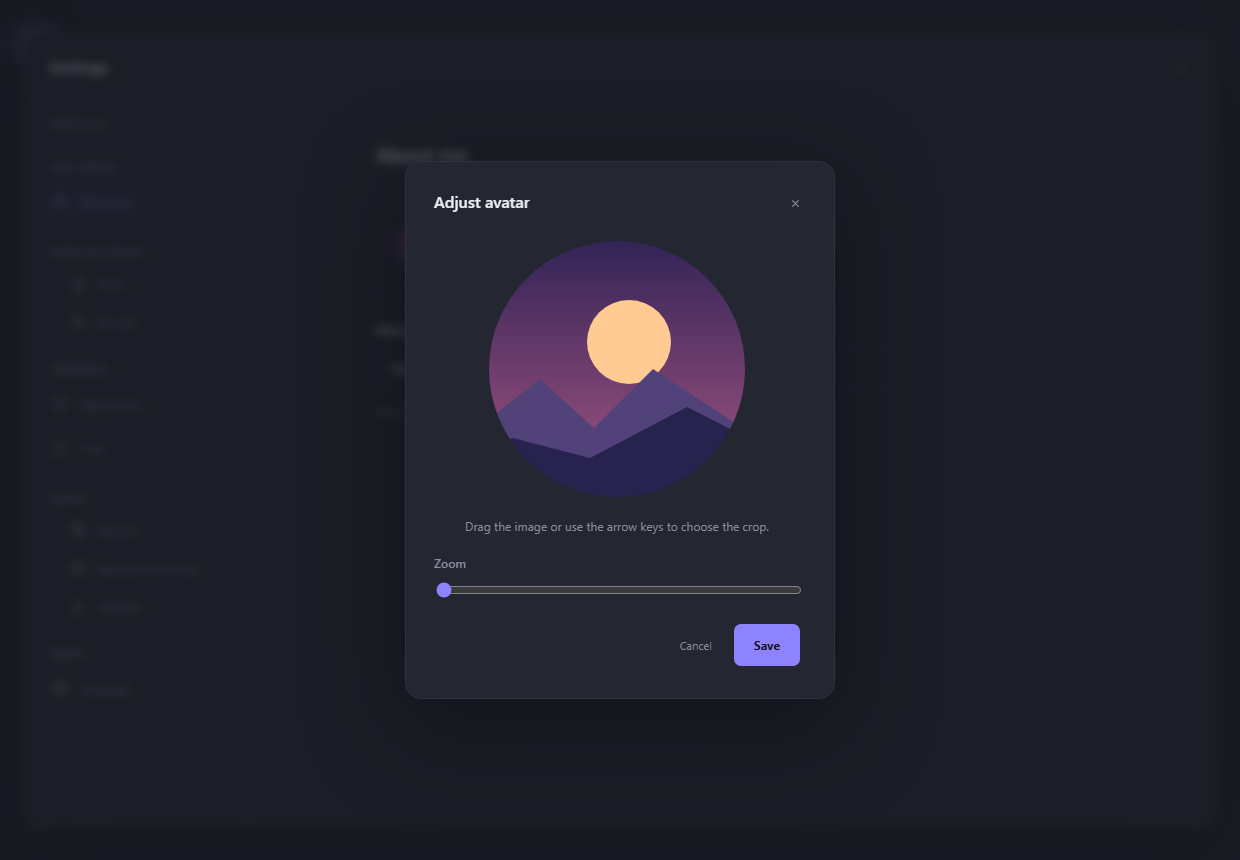
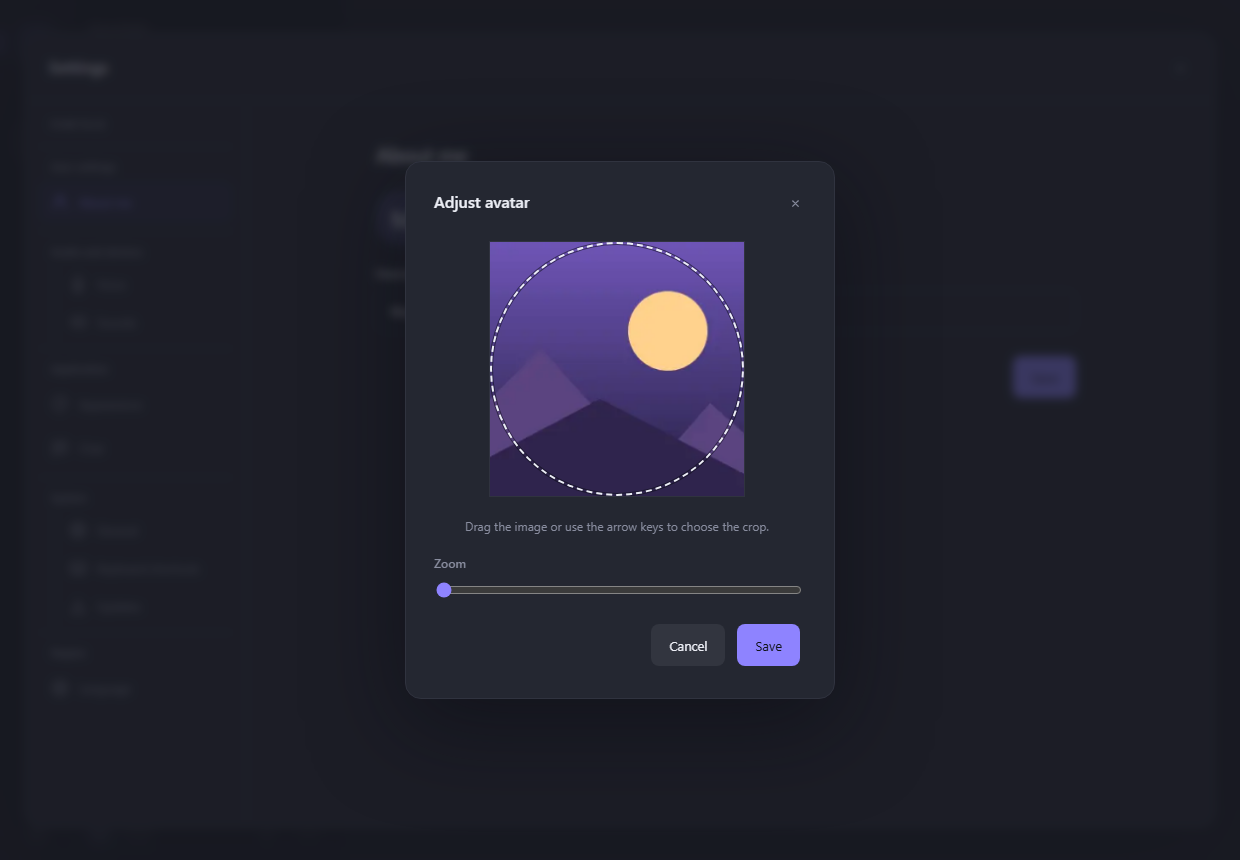
docs(website): refresh bilingual screenshots and chat features

Changed region(s): [[0.3677, 0.2721, 0.6129, 0.5744], [0.7968, 0.393, 0.8887, 0.4837], [0.5516, 0.7256, 0.6435, 0.7558]]

diff --git a/website/ru/index.html b/website/ru/index.html
@@ -39,19 +39,20 @@
     <p class="fine">Установщик без цифровой подписи · Проверяемое автообновление · <a href="../downloads/#client" data-release="client">Описание выпуска, SHA-256 и исходники</a></p>
     <p class="fine" data-status></p>
   </section>
-  <figure class="hero-shot"><a href="../assets/room-chat.png"><img src="../assets/room-chat.png" width="1240" height="860" fetchpriority="high" alt="Комната PawTalk с тремя участниками, кнопками звонка и зашифрованным текстовым чатом"></a><figcaption>Иллюстрация интерфейса 0.7.x; актуальный API 2 отличается.</figcaption></figure>
+  <figure class="hero-shot"><a href="../assets/room-chat.png"><img src="../assets/room-chat.png" width="1240" height="860" fetchpriority="high" alt="Комната PawTalk с тремя участниками, кнопками звонка и зашифрованным текстовым чатом"></a><figcaption>Интерфейс Client 0.13.0 на синтетических профилях. Доступные выпуски указаны выше.</figcaption></figure>
   <section class="section" aria-labelledby="features"><h2 id="features">Небольшая комната. Нужные настройки.</h2>
     <div class="features"><article><h3>Размещайте у себя</h3><p>Временный Server из Windows-клиента или постоянный Server под управлением Manager на Windows/Linux. Гостям достаточно установить клиент.</p></article><article><h3>Убирайте лишний шум</h3><p>Локальное шумоподавление RNNoise, эхоподавление и автоусиление. Выбирайте устройства, чувствительность и громкость.</p></article><article><h3>Говорите как удобно</h3><p>Активация голосом или push-to-talk, глобальные сочетания, mute/deafen и громкость каждого участника. Приложение работает в трее.</p></article></div>
   </section>
-  <section class="section split"><div><div class="eyebrow">В комнате</div><h2>Говорите и пишите в одной комнате.</h2><p>Меняйте высоту голосовой панели и чата. Отправляйте картинки до 2 МиБ, отвечайте на сообщения и копируйте текст. Форматируйте выделение, используйте Markdown, редактируйте и удаляйте свои сообщения на обновлённых серверах. Ссылки открываются в браузере. История подгружается при прокрутке; размер окна задаётся в настройках. На VPS объём хранения задаётся через PAWTALK_CHAT_MAX_MB: 128 МиБ по умолчанию, 0 — без лимита. Ограничения в семь дней нет.</p><p>При наборе текста анимируются лапки. Необязательные записи кошачьих звуков отмечают вход и выход из комнаты и сообщают о непросмотренных сообщениях, если приложение неактивно или чат прокручен вверх.</p><p>Выберите аватар и оцените круглый кадр перед сохранением.</p></div><figure><a href="../assets/avatar-crop.png"><img src="../assets/avatar-crop.png" width="1240" height="860" loading="lazy" alt="Круглый предпросмотр с масштабированием и сдвигом изображения."></a><figcaption>Круглый предпросмотр с масштабированием и сдвигом изображения.</figcaption></figure></section>
+  <section class="section split"><div><div class="eyebrow">В комнате</div><h2>Говорите и пишите в одной комнате.</h2><p>Меняйте высоту голосовой панели и чата. Отправляйте картинки до 2 МиБ, отвечайте на сообщения и копируйте текст. Форматируйте выделение, используйте Markdown, редактируйте и удаляйте свои сообщения на обновлённых серверах. Ссылки открываются в браузере. История автоматически подгружается при прокрутке. Размер порции задаётся в настройках; загруженные сообщения остаются в памяти до выхода из чата или нехватки памяти. На VPS объём хранения задаётся через PAWTALK_CHAT_MAX_MB: 128 МиБ по умолчанию, 0 — без лимита. Ограничения в семь дней нет.</p><p>Сообщения приходят сразу. Упомяните участника через @ или перетащите его из списка в чат. Заглушите сервер или отдельный чат на время или до включения вручную; личные упоминания остаются заметными. Уведомления Windows и необязательное мурчание учитывают непрочитанные сообщения и прекращаются после прочтения.</p><p>Выберите личный аватар, а администраторы могут установить общую картинку сервера. При кадрировании видны границы квадрата и круглая безопасная область. Новые функции чата требуют Server 0.12.0 или новее.</p></div><figure><a href="../assets/avatar-crop.png"><img src="../assets/avatar-crop.png" width="1240" height="860" loading="lazy" alt="Квадратный кадр с круглой безопасной областью, масштабированием и сдвигом."></a><figcaption>Квадратный кадр с круглой безопасной областью, масштабированием и сдвигом.</figcaption></figure></section>
+  <section class="section split"><div><div class="eyebrow">Решайте вместе</div><h2>Спросите у комнаты.</h2><p>Создайте опрос на срок от часа до двух недель. Разрешите несколько ответов, выберите анонимное голосование и решите, показывать ли промежуточные результаты. Участники могут менять и отменять голоса; в открытом голосовании видны их аватарки.</p><p>Автор может завершить опрос досрочно. По окончании в чат приходит отдельный системный ответ со ссылкой на итог. Завершённый опрос и его результат участники удалить не могут.</p></div><figure><a href="../assets/poll-create.png"><img src="../assets/poll-create.png" width="1240" height="860" loading="lazy" alt="Создание опроса: варианты ответов, срок, анонимность и промежуточные результаты"></a><figcaption>Создание опроса в Client 0.13.0 с Server 0.12.0.</figcaption></figure></section>
   <section class="section" id="start"><h2>От скачивания до первого разговора.</h2>
     <ol class="steps"><li><strong>Установите и проверьте звук</strong><p>Установите клиент на каждый Windows-ПК и выберите Русский или English. В настройках задайте никнейм, выберите устройства и проверьте микрофон. Инструменты разработчика не нужны.</p></li><li><strong>Создайте комнату</strong><p>Выберите «Создать сервер», задайте название. Создатель автоматически становится администратором, отдельный пароль API 2 не требуется. Временный сервер работает до остановки хоста.</p></li><li><strong>Пригласите друга</strong><p>Передайте полное приглашение лично. Друг вставляет ссылку через «Присоединиться к серверу». Для голоса затем выберите голосовой канал: вступление само по себе не включает микрофон.</p></li></ol>
     <p>Для связи через интернет нужны доступные порты хоста. Автопроброс может не сработать при CGNAT. Альтернатива — постоянный Server под управлением Manager на Windows или Linux с публичным IP. <a href="https://github.com/IlyaRusskikh/PawTalk/blob/main/docs/README.ru.md">Полная инструкция →</a></p>
   </section>
-  <section class="section split"><div><div class="eyebrow">Перед разговором</div><h2>Сначала услышьте себя.<br>Потом — друзей.</h2><p>В «Звук и устройства → Голос» выберите микрофон и динамики, попробуйте шумоподавление и прослушайте микрофон. Расширенная обработка и приглушение приложений доступны в раскрывающемся разделе.</p><p>Порты хоста по умолчанию: TCP <strong>18443</strong>, TCP <strong>18444</strong>, UDP <strong>18445</strong>. В руководстве сервера описаны проверки firewall и доступности.</p></div><figure><a href="../assets/audio-settings.png"><img src="../assets/audio-settings.png" width="1240" height="860" loading="lazy" alt="Настройки PawTalk: микрофон, динамик, проверка микрофона и шумоподавление"></a><figcaption>Настоящие настройки звука; при съёмке использован синтетический микрофон.</figcaption></figure></section>
-  <section class="section split"><div><div class="eyebrow">Оформление и обновления</div><h2>Ваш язык.<br>Проверяемые обновления.</h2><p>Выберите Русский или English в разделе «Настройки → Язык». В настройках с боковой навигацией доступны светлая тема, цветовая палитра и скругления. Подсказки соединения и сообщения используют выбранный язык.</p><p>В «Система → Обновления» автопроверку можно отключить или запустить вручную; текущая версия показана рядом. Обновление можно отложить и открыть снова по иконке. Файл проверяется перед установкой, а отдельное окно показывает её ход.</p><p>Версии Client, Server и Manager выпускаются независимо. Перед обновлением постоянного сервера проверьте <a href="https://github.com/IlyaRusskikh/PawTalk/blob/main/docs/server/compatibility.ru.md">совместимость опубликованных выпусков</a>.</p></div><figure><a href="../assets/language-settings.png"><img src="../assets/language-settings.png" width="1240" height="860" loading="lazy" alt="Настройки PawTalk: отдельная страница выбора языка приложения"></a><figcaption>Исторический снимок интерфейса 0.7.x; меню могло измениться.</figcaption></figure></section>
+  <section class="section split"><div><div class="eyebrow">Перед разговором</div><h2>Сначала услышьте себя.<br>Потом — друзей.</h2><p>В «Звук и устройства → Голос» выберите микрофон и динамики, попробуйте шумоподавление и прослушайте микрофон. Расширенная обработка и приглушение приложений доступны в раскрывающемся разделе.</p><p>Порты хоста по умолчанию: TCP <strong>18443</strong>, TCP <strong>18444</strong>, UDP <strong>18445</strong>. В руководстве сервера описаны проверки firewall и доступности.</p></div><figure><a href="../assets/audio-settings.png"><img src="../assets/audio-settings.png" width="1240" height="860" loading="lazy" alt="Настройки PawTalk: микрофон, динамик, проверка микрофона и режим ввода"></a><figcaption>Настоящие настройки звука; при съёмке использован синтетический микрофон.</figcaption></figure></section>
+  <section class="section split"><div><div class="eyebrow">Оформление и обновления</div><h2>Ваш язык.<br>Проверяемые обновления.</h2><p>Выберите Русский или English в разделе «Настройки → Язык». В настройках с боковой навигацией доступны светлая тема, цветовая палитра и скругления. Подсказки соединения и сообщения используют выбранный язык.</p><p>В «Система → Обновления» автопроверку можно отключить или запустить вручную; текущая версия показана рядом. Обновление можно отложить и открыть снова по иконке. Файл проверяется перед установкой, а отдельное окно показывает её ход.</p><p>Версии Client, Server и Manager выпускаются независимо. Перед обновлением постоянного сервера проверьте <a href="https://github.com/IlyaRusskikh/PawTalk/blob/main/docs/server/compatibility.ru.md">совместимость опубликованных выпусков</a>.</p></div><figure><a href="../assets/language-settings.png"><img src="../assets/language-settings.png" width="1240" height="860" loading="lazy" alt="Настройки PawTalk: отдельная страница выбора языка приложения"></a><figcaption>Настройки языка Client 0.13.0.</figcaption></figure></section>
   <section class="section"><h2>Что учитывать в предварительной версии.</h2><div class="limits"><p><strong>Это ранний выпуск.</strong> Реальные микрофоны, чистая установка Windows, игры/PTT, разные внешние сети и полная нагрузка ещё требуют аппаратной приёмки.</p><p>Клиент работает только на Windows. Linux — серверная платформа. Видео, демонстрация экрана, веб- и мобильные клиенты пока недоступны.</p><p>В опубликованном API 2 сквозное шифрование голоса, сообщений и изображений обязательно. Сервер видит метаданные, но не содержимое. Уход/бан не уничтожает уже полученные ключи, ротации корня и forward secrecy пока нет. API 1 с API 2 несовместим, автоматической миграции нет. <a href="https://github.com/IlyaRusskikh/PawTalk/blob/main/architecture/security.ru.md">Границы защиты</a>.</p></div></section>
-  <section class="section split"><div><h2>Мяуканье и мурчание. На вашей громкости.</h2><p>В «Звук и устройства → Звуки» доступны общая громкость уведомлений, прослушивание мяуканья и мурчания и отключение звуков. Голос и Звуки находятся на общей странице; Система объединяет автозапуск, горячие клавиши и обновления.</p></div><figure><a href="../assets/sound-settings.png"><img src="../assets/sound-settings.png" width="1240" height="860" loading="lazy" alt="Громкость уведомлений и прослушивание звуков в PawTalk 0.7.1"></a><figcaption>Исторический снимок настроек звука 0.7.x.</figcaption></figure></section>
+  <section class="section split"><div><h2>Мяуканье и мурчание. На вашей громкости.</h2><p>В «Звук и устройства → Звуки» доступны общая громкость уведомлений, прослушивание мяуканья и мурчания и отключение звуков. Голос и Звуки находятся на общей странице; Система объединяет автозапуск, горячие клавиши и обновления.</p></div><figure><a href="../assets/sound-settings.png"><img src="../assets/sound-settings.png" width="1240" height="860" loading="lazy" alt="Громкость уведомлений и прослушивание звуков в PawTalk"></a><figcaption>Настройки звука Client 0.13.0.</figcaption></figure></section>
   <section class="section" id="faq"><h2>Ответы перед первым запуском.</h2>
     <details><summary>Это альтернатива Discord или TeamSpeak?</summary><p>Для небольших голосовых комнат на своём сервере — это целевой сценарий. PawTalk сосредоточен на разговорах без регистрации и не заменяет все возможности этих платформ для сообществ.</p></details>
     <details><summary>Голос передаётся напрямую, по P2P?</summary><p>Голос идёт по WebRTC через медиасервер LiveKit на ПК хоста или вашем VPS. Гостям нужен Windows-клиент, разворачивать свой сервер не требуется.</p></details>

diff --git a/website/index.html b/website/index.html
@@ -39,19 +39,20 @@
     <p class="fine">Unsigned installer · Verified automatic updates · <a href="downloads/#client" data-release="client">Release notes, checksums and source</a></p>
     <p class="fine" data-status></p>
   </section>
-  <figure class="hero-shot"><a href="assets/room-chat-en.png"><img src="assets/room-chat-en.png" width="1240" height="860" fetchpriority="high" alt="PawTalk room with three participants, call controls and encrypted text chat"></a><figcaption>Illustrative screenshot of older 0.7.x UI; feature descriptions refer to published API 2.</figcaption></figure>
+  <figure class="hero-shot"><a href="assets/room-chat-en.png"><img src="assets/room-chat-en.png" width="1240" height="860" fetchpriority="high" alt="PawTalk room with three participants, call controls and encrypted text chat"></a><figcaption>Client 0.13.0 interface with synthetic profiles. Available releases are listed above.</figcaption></figure>
   <section class="section" aria-labelledby="features"><h2 id="features">A small room. The controls you need.</h2>
     <div class="features"><article><h3>Host it yourself</h3><p>Temporary Server from Windows Client, or permanent Server managed on Windows/Linux. Your guests just install the client.</p></article><article><h3>Keep the noise down</h3><p>Local RNNoise noise suppression, echo cancellation and automatic gain control. Adjust devices, sensitivity and volume.</p></article><article><h3>Speak your way</h3><p>Voice activation or push-to-talk, global shortcuts, mute/deafen and per-person volume. Keep the app in the tray.</p></article></div>
   </section>
-  <section class="section split"><div><div class="eyebrow">In the room</div><h2>Keep talking. Share a message.</h2><p>Resize the voice and chat panels. Share images up to 2 MiB, reply to messages and copy text. Format selected text, use Markdown, and edit or delete your own messages on updated servers. Links open in your browser. History loads as you scroll, with a configurable client window. VPS storage uses PAWTALK_CHAT_MAX_MB: 128 MiB by default, 0 for unlimited. There is no seven-day expiry.</p><p>Typing status uses animated paws. Optional cat recordings mark room arrivals and departures, and alert you to unseen messages when the app is inactive or chat is scrolled up.</p><p>Choose a profile picture and preview the circular crop before saving.</p></div><figure><a href="assets/avatar-crop-en.png"><img src="assets/avatar-crop-en.png" width="1240" height="860" loading="lazy" alt="Circular avatar preview with zoom and repositioning."></a><figcaption>Circular avatar preview with zoom and repositioning.</figcaption></figure></section>
+  <section class="section split"><div><div class="eyebrow">In the room</div><h2>Keep talking. Share a message.</h2><p>Resize the voice and chat panels. Share images up to 2 MiB, reply to messages and copy text. Format selected text, use Markdown, and edit or delete your own messages on updated servers. Links open in your browser. History loads automatically as you scroll. Choose the batch size in Settings; loaded messages stay in memory until you leave the chat or memory runs low. VPS storage uses PAWTALK_CHAT_MAX_MB: 128 MiB by default, 0 for unlimited. There is no seven-day expiry.</p><p>Messages arrive live. Mention a member with @ or drag them from the member list. Mute a server or individual chat for a while or until you turn notifications back on; direct mentions remain noticeable. Windows alerts and optional purrs follow unread messages and stop when you read them.</p><p>Choose a profile picture, or set a shared server picture as an administrator. The crop preview shows the square boundary and circular safe area. New chat features require Server 0.12.0 or later.</p></div><figure><a href="assets/avatar-crop-en.png"><img src="assets/avatar-crop-en.png" width="1240" height="860" loading="lazy" alt="Square avatar crop with a circular safe area, zoom and repositioning."></a><figcaption>Square avatar crop with a circular safe area, zoom and repositioning.</figcaption></figure></section>
+  <section class="section split"><div><div class="eyebrow">Decide together</div><h2>Ask the room.</h2><p>Create a poll lasting from one hour to two weeks. Allow multiple choices, choose anonymous voting and decide whether to show results before the poll closes. Members can change or withdraw their votes; visible voters appear as avatars.</p><p>The author can end a poll early. When it closes, a separate system reply links back to the final result. Completed polls and their results cannot be deleted by members.</p></div><figure><a href="assets/poll-create-en.png"><img src="assets/poll-create-en.png" width="1240" height="860" loading="lazy" alt="Poll creation with answer choices, duration, anonymity and intermediate results settings"></a><figcaption>Create a poll in Client 0.13.0 with Server 0.12.0.</figcaption></figure></section>
   <section class="section" id="start"><h2>From download to first conversation.</h2>
     <ol class="steps"><li><strong>Install &amp; check your mic</strong><p>Install the Windows client on each PC and choose English or Russian. In Settings, choose a nickname, select audio devices and test your microphone. No developer tools are needed.</p></li><li><strong>Create a room</strong><p>Choose Create room (Создать комнату), enter a name. The creator becomes its administrator; published API 2 has no separate room password. The temporary server runs while its host is active.</p></li><li><strong>Invite a friend</strong><p>Share the full invitation privately. Your friend pastes it into Join server (Присоединиться к серверу), then enters a voice channel separately. Joining does not automatically unmute a microphone.</p></li></ol>
     <p>Across the internet, the host needs reachable ports. Automatic port mapping may not work behind CGNAT. A permanent Server on Windows or Linux, managed by Server Manager, is an alternative. <a href="https://github.com/IlyaRusskikh/PawTalk/blob/main/docs/README.md">Read the full setup guide →</a></p>
   </section>
-  <section class="section split"><div><div class="eyebrow">Before the call</div><h2>Hear yourself.<br>Then join your friends.</h2><p>Under Audio and devices → Voice, choose your microphone and speakers, try noise suppression and listen to a microphone test. Sounds has a shared notification volume and meow/purr previews.</p><p>Default hosting ports: TCP <strong>18443</strong>, TCP <strong>18444</strong>, UDP <strong>18445</strong>. The server setup guide covers firewall and connectivity checks.</p></div><figure><a href="assets/audio-settings-en.png"><img src="assets/audio-settings-en.png" width="1240" height="860" loading="lazy" alt="PawTalk settings showing microphone, speaker, monitoring and noise suppression controls"></a><figcaption>Real audio settings; capture uses a synthetic microphone.</figcaption></figure></section>
-  <section class="section split"><div><div class="eyebrow">Language and updates</div><h2>Your language.<br>Verified updates.</h2><p>Choose English or Russian under Settings → Language. Settings now have sidebar navigation, a light preset, editable colors and corner sizes. Connection tooltips and status messages follow your choice.</p><p>Under System → Updates, turn automatic checks on or off, check manually and see the current version. Update now or defer it; an icon lets you reopen the offer. Downloads are verified before installation, and a separate window shows installation progress.</p><p>Client, Server and Manager are released independently. Before upgrading a permanent Server, consult <a href="https://github.com/IlyaRusskikh/PawTalk/blob/main/docs/server/compatibility.en.md">published version compatibility</a>.</p></div><figure><a href="assets/language-settings-en.png"><img src="assets/language-settings-en.png" width="1240" height="860" loading="lazy" alt="PawTalk English settings with a persistent application language selector"></a><figcaption>Historical 0.7.x settings screenshot; current layout may differ.</figcaption></figure></section>
+  <section class="section split"><div><div class="eyebrow">Before the call</div><h2>Hear yourself.<br>Then join your friends.</h2><p>Under Audio and devices → Voice, choose your microphone and speakers, try noise suppression and listen to a microphone test. Sounds has a shared notification volume and meow/purr previews.</p><p>Default hosting ports: TCP <strong>18443</strong>, TCP <strong>18444</strong>, UDP <strong>18445</strong>. The server setup guide covers firewall and connectivity checks.</p></div><figure><a href="assets/audio-settings-en.png"><img src="assets/audio-settings-en.png" width="1240" height="860" loading="lazy" alt="PawTalk settings showing microphone, speaker, microphone test and input mode"></a><figcaption>Real audio settings; capture uses a synthetic microphone.</figcaption></figure></section>
+  <section class="section split"><div><div class="eyebrow">Language and updates</div><h2>Your language.<br>Verified updates.</h2><p>Choose English or Russian under Settings → Language. Settings now have sidebar navigation, a light preset, editable colors and corner sizes. Connection tooltips and status messages follow your choice.</p><p>Under System → Updates, turn automatic checks on or off, check manually and see the current version. Update now or defer it; an icon lets you reopen the offer. Downloads are verified before installation, and a separate window shows installation progress.</p><p>Client, Server and Manager are released independently. Before upgrading a permanent Server, consult <a href="https://github.com/IlyaRusskikh/PawTalk/blob/main/docs/server/compatibility.en.md">published version compatibility</a>.</p></div><figure><a href="assets/language-settings-en.png"><img src="assets/language-settings-en.png" width="1240" height="860" loading="lazy" alt="PawTalk English settings with a persistent application language selector"></a><figcaption>Client 0.13.0 language settings.</figcaption></figure></section>
   <section class="section"><h2>Try the preview with clear expectations.</h2><div class="limits"><p><strong>This is an early release.</strong> Real microphones, clean Windows installations, games/PTT, separate internet networks and full load still need hardware acceptance testing.</p><p>Windows desktop client only. Linux is a server platform. Video, screen sharing and web or mobile clients are unavailable.</p><p>Published API 2 mandates end-to-end encryption for voice, messages and images. The server still sees metadata. Leaving/banning does not erase obtained keys; there is no automatic root rotation or forward secrecy. API 1 cannot interoperate with API 2 and has no automatic migration. <a href="https://github.com/IlyaRusskikh/PawTalk/blob/main/architecture/security.en.md">Security boundaries</a>.</p></div></section>
-  <section class="section split"><div><h2>Meows and purrs. At your volume.</h2><p>Audio and devices → Sounds has a shared volume for room events and unseen messages, meow and purr previews, and a notification toggle. Voice and Sounds share one page; System groups startup, shortcuts and updates.</p></div><figure><a href="assets/sound-settings-en.png"><img src="assets/sound-settings-en.png" width="1240" height="860" loading="lazy" alt="Notification volume and sound previews in PawTalk 0.7.1"></a><figcaption>Historical 0.7.x sound settings screenshot.</figcaption></figure></section>
+  <section class="section split"><div><h2>Meows and purrs. At your volume.</h2><p>Audio and devices → Sounds has a shared volume for room events and unseen messages, meow and purr previews, and a notification toggle. Voice and Sounds share one page; System groups startup, shortcuts and updates.</p></div><figure><a href="assets/sound-settings-en.png"><img src="assets/sound-settings-en.png" width="1240" height="860" loading="lazy" alt="Notification volume and sound previews in PawTalk"></a><figcaption>Client 0.13.0 sound settings.</figcaption></figure></section>
   <section class="section" id="faq"><h2>A few things to know.</h2>
     <details><summary>Is this an alternative to Discord or TeamSpeak?</summary><p>For small, self-hosted voice rooms, that is the use case. PawTalk focuses on account-free conversations. It does not replace their broader community features.</p></details>
     <details><summary>Is voice peer-to-peer?</summary><p>Voice uses WebRTC through a LiveKit media server running on the host PC or your VPS. Guests need the Windows client, not their own server.</p></details>

diff --git a/website/README.ru.md b/website/README.ru.md
@@ -6,4 +6,28 @@
 
 Деплой выполняется через Pages после фактической публикации или явного запуска с main; без публикации не следует показывать выдуманный релиз. Проверка сайта: `node scripts/check-website.mjs`; для каталога — генерация `node scripts/release-catalog.mjs` и `node scripts/check-website.mjs --catalog`.
 
-Скриншоты в assets относятся к **историческому интерфейсу 0.7.x** и не доказывают внешний вид текущего API 2. Перед заменой снимков соберите и проверьте опубликованный клиент, обезличьте данные и перепроверьте оба языка.
+## Скриншоты
+
+PNG показывают интерфейс подготовленного исходного кода Client 0.13.0, а не факт
+публикации выпуска. Версии для скачивания по-прежнему берутся из живого каталога.
+Иконка проекта взята из существующего assets/pawtalk.svg.
+
+После сборки общего Server и интерфейса Client выполните:
+
+```sh
+npm run server:prepare
+npm run build
+node scripts/capture-website.mjs
+```
+
+Съёмка запускает настоящий Electron main/preload/renderer с временным локальным
+Go Server и LiveKit, закреплённым TLS и E2EE. Создаются изолированные профили,
+синтетические микрофоны, три демонстрационных участника, сообщения и опрос.
+Нативные уведомления отключены только в процессе съёмки. Профили установленного
+Client/Manager не используются; приглашения в буфер обмена не копируются.
+
+Для каждого языка сохранены восемь PNG 1240 × 860: home, create-room, room-chat,
+avatar-crop, audio-settings, language-settings, sound-settings и poll-create.
+Английские файлы имеют суффикс -en. Перед публикацией просмотрите каждый снимок:
+секреты, личные данные и вёрстка. Съёмка подтверждает интерфейс и синтетическую
+интеграцию, но не работу реальных микрофонов или внешних сетей.

diff --git a/website/README.md b/website/README.md
@@ -22,10 +22,26 @@ Keep RU/EN presentation aligned with README and the published API 2 guides; tech
 
 ## Screenshots
 
-`assets/pawtalk.svg` is copied from the project's existing `assets/pawtalk.svg`.
-PNG screenshots are historical 0.7.x UI references; never use them as evidence of current published API 2 visual layout. Refresh from current release before claiming up-to-date UI.
-The capture uses an isolated profile, synthetic microphones and a temporary E2EE
-room populated with demo participants and messages. The invitation dialog is
-closed before capture. Audio settings show fake Chromium audio devices.
+The PNGs show the prepared Client 0.13.0 source interface, not proof of a published
+release. Download versions still come from the live release catalog. The project
+icon comes from the existing assets/pawtalk.svg.
 
-The screenshots were captured from a legacy 0.7.x preview and must not be presented as current API 2 UI. The old capture script is no longer part of the documented build workflow. A maintainer should run a **published Client binary** in a clean, synthetic profile and manually replace both English/Russian screenshots. Inspect every image for secrets, personal data and layout before publication.
+After building the shared Server and Client UI, run:
+
+```sh
+npm run server:prepare
+npm run build
+node scripts/capture-website.mjs
+```
+
+The capture runs the actual Electron main/preload/renderer against a temporary
+loopback Go Server and LiveKit with pinned TLS and E2EE. It creates isolated
+profiles, synthetic microphones, three demo members, messages and a poll. Native
+notifications are disabled only in this capture process. It does not use installed
+Client/Manager profiles or copy invitations to the clipboard.
+
+Both locales contain eight 1240 × 860 PNGs: home, create-room, room-chat,
+avatar-crop, audio-settings, language-settings, sound-settings and poll-create.
+English files have the -en suffix. Inspect every image for secrets, personal data
+and layout before publication. Captures demonstrate UI and synthetic integration,
+not real audio hardware or external-network acceptance.
